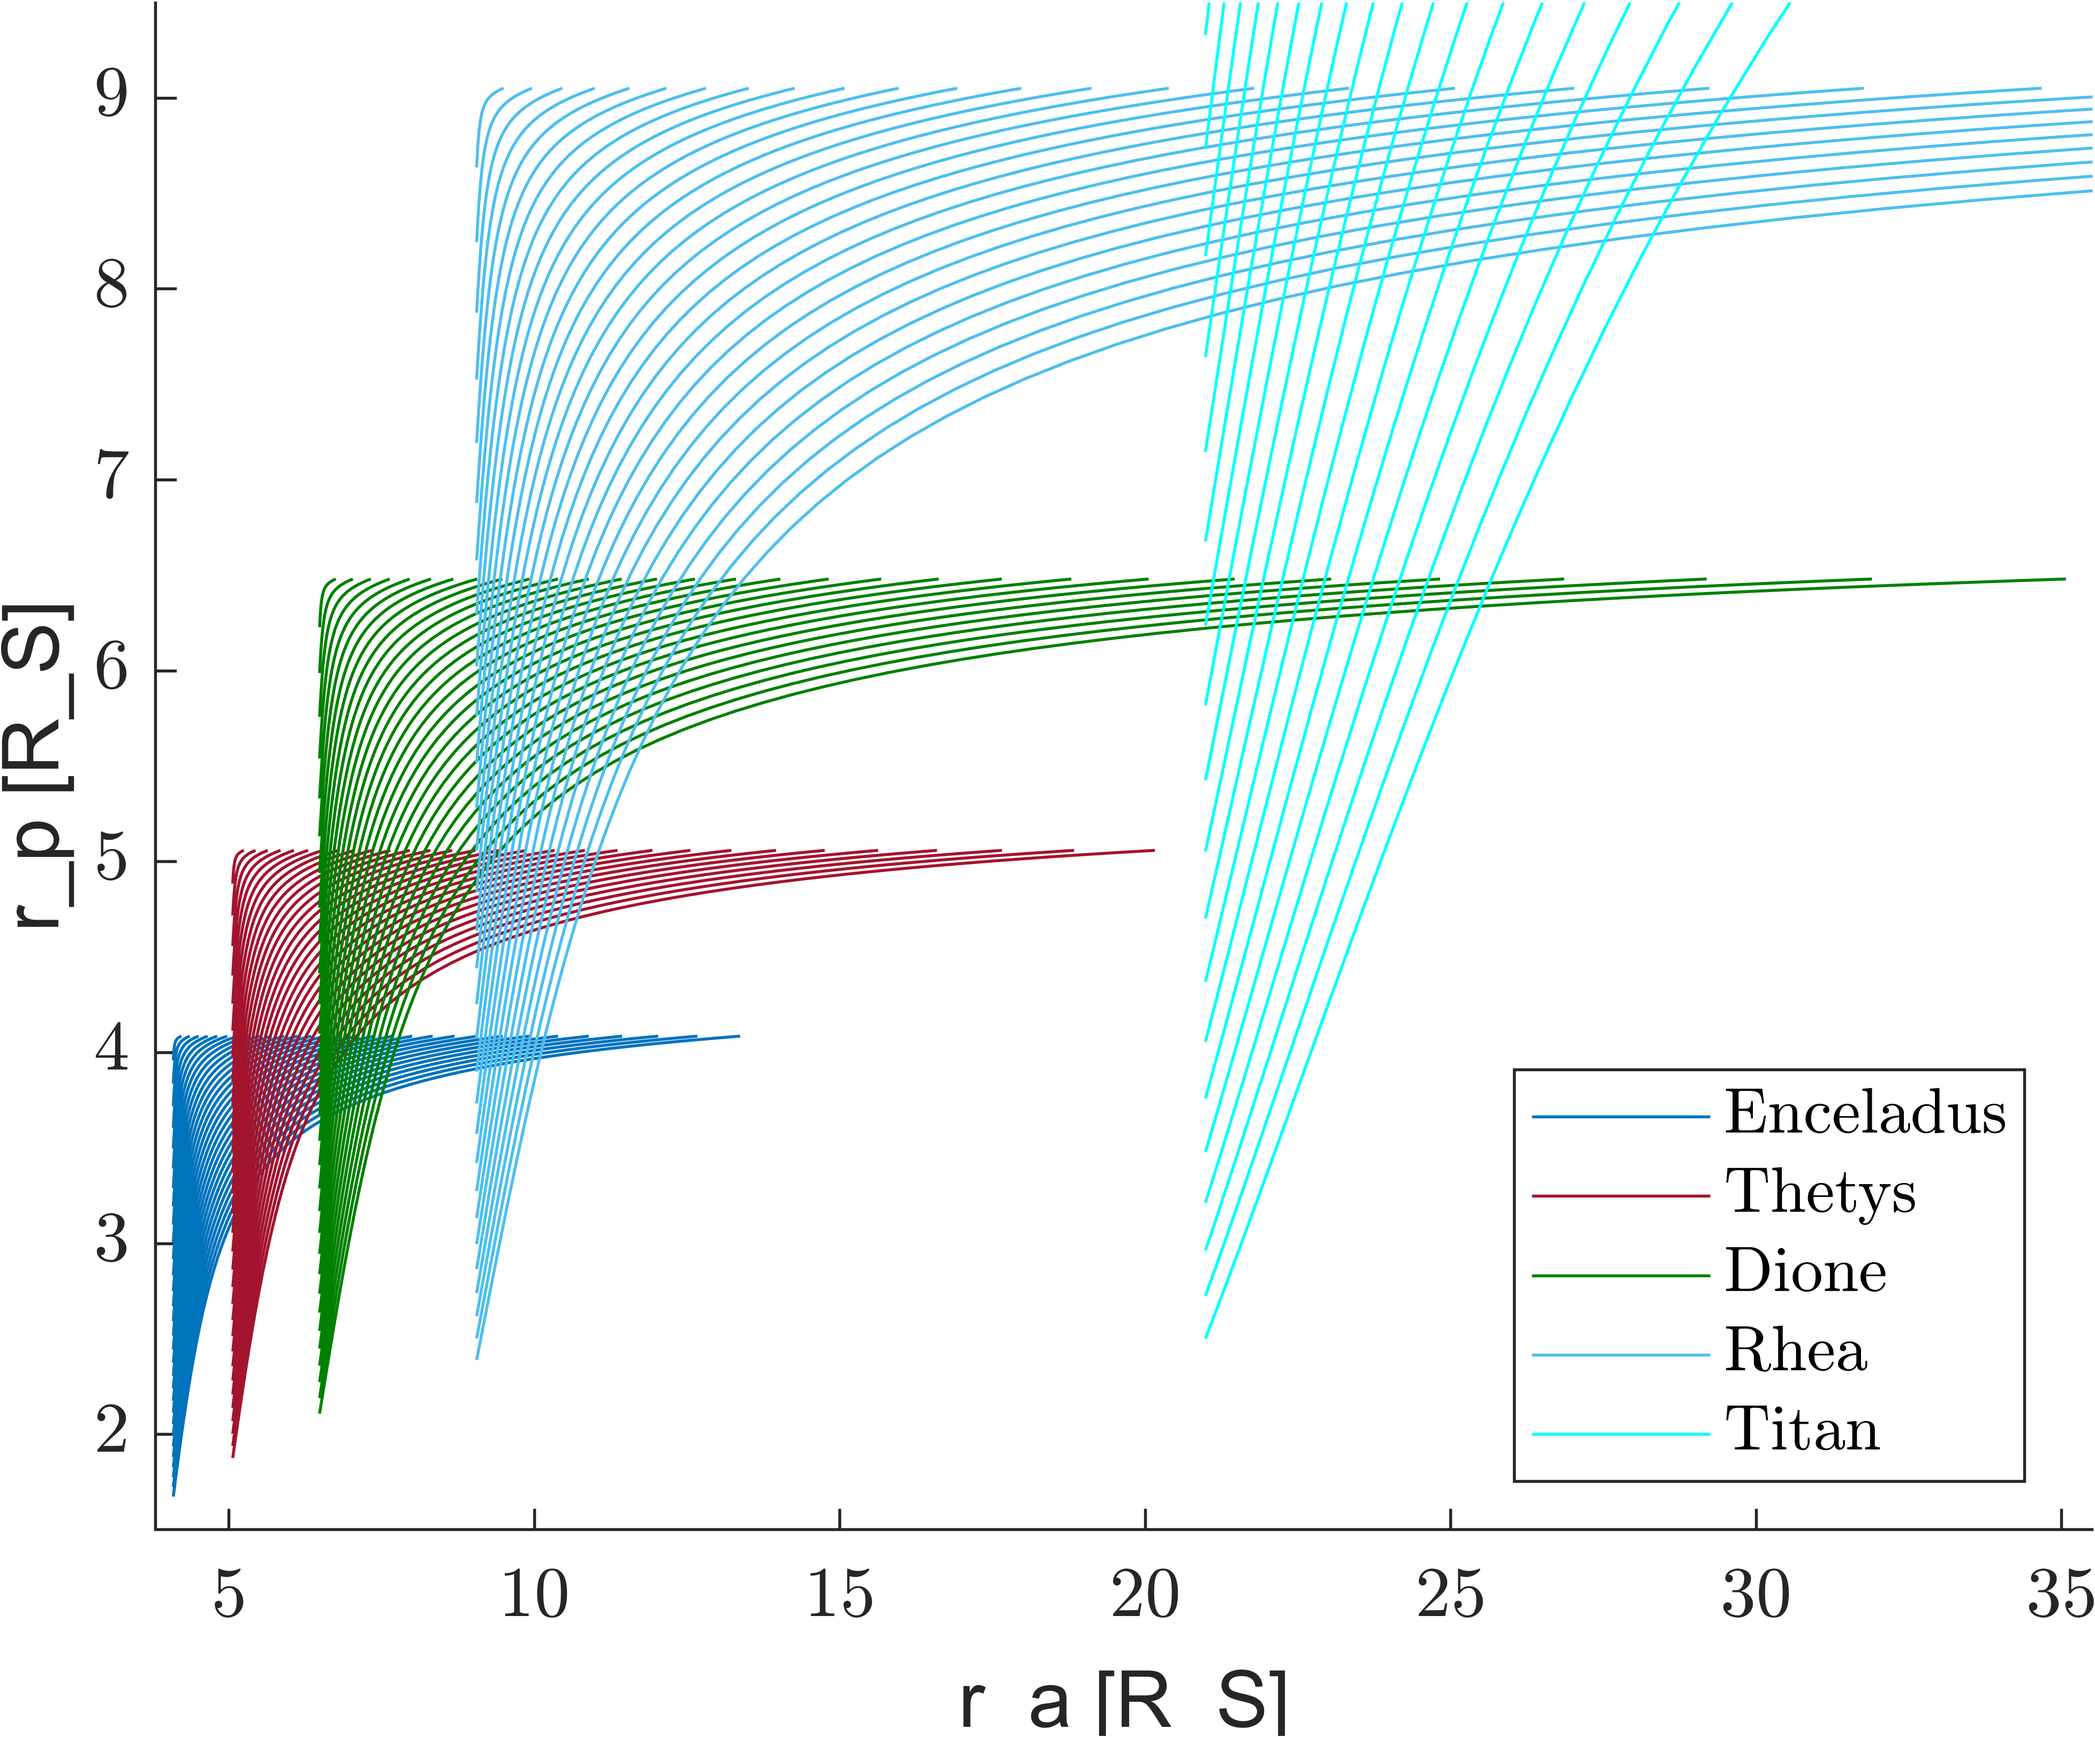
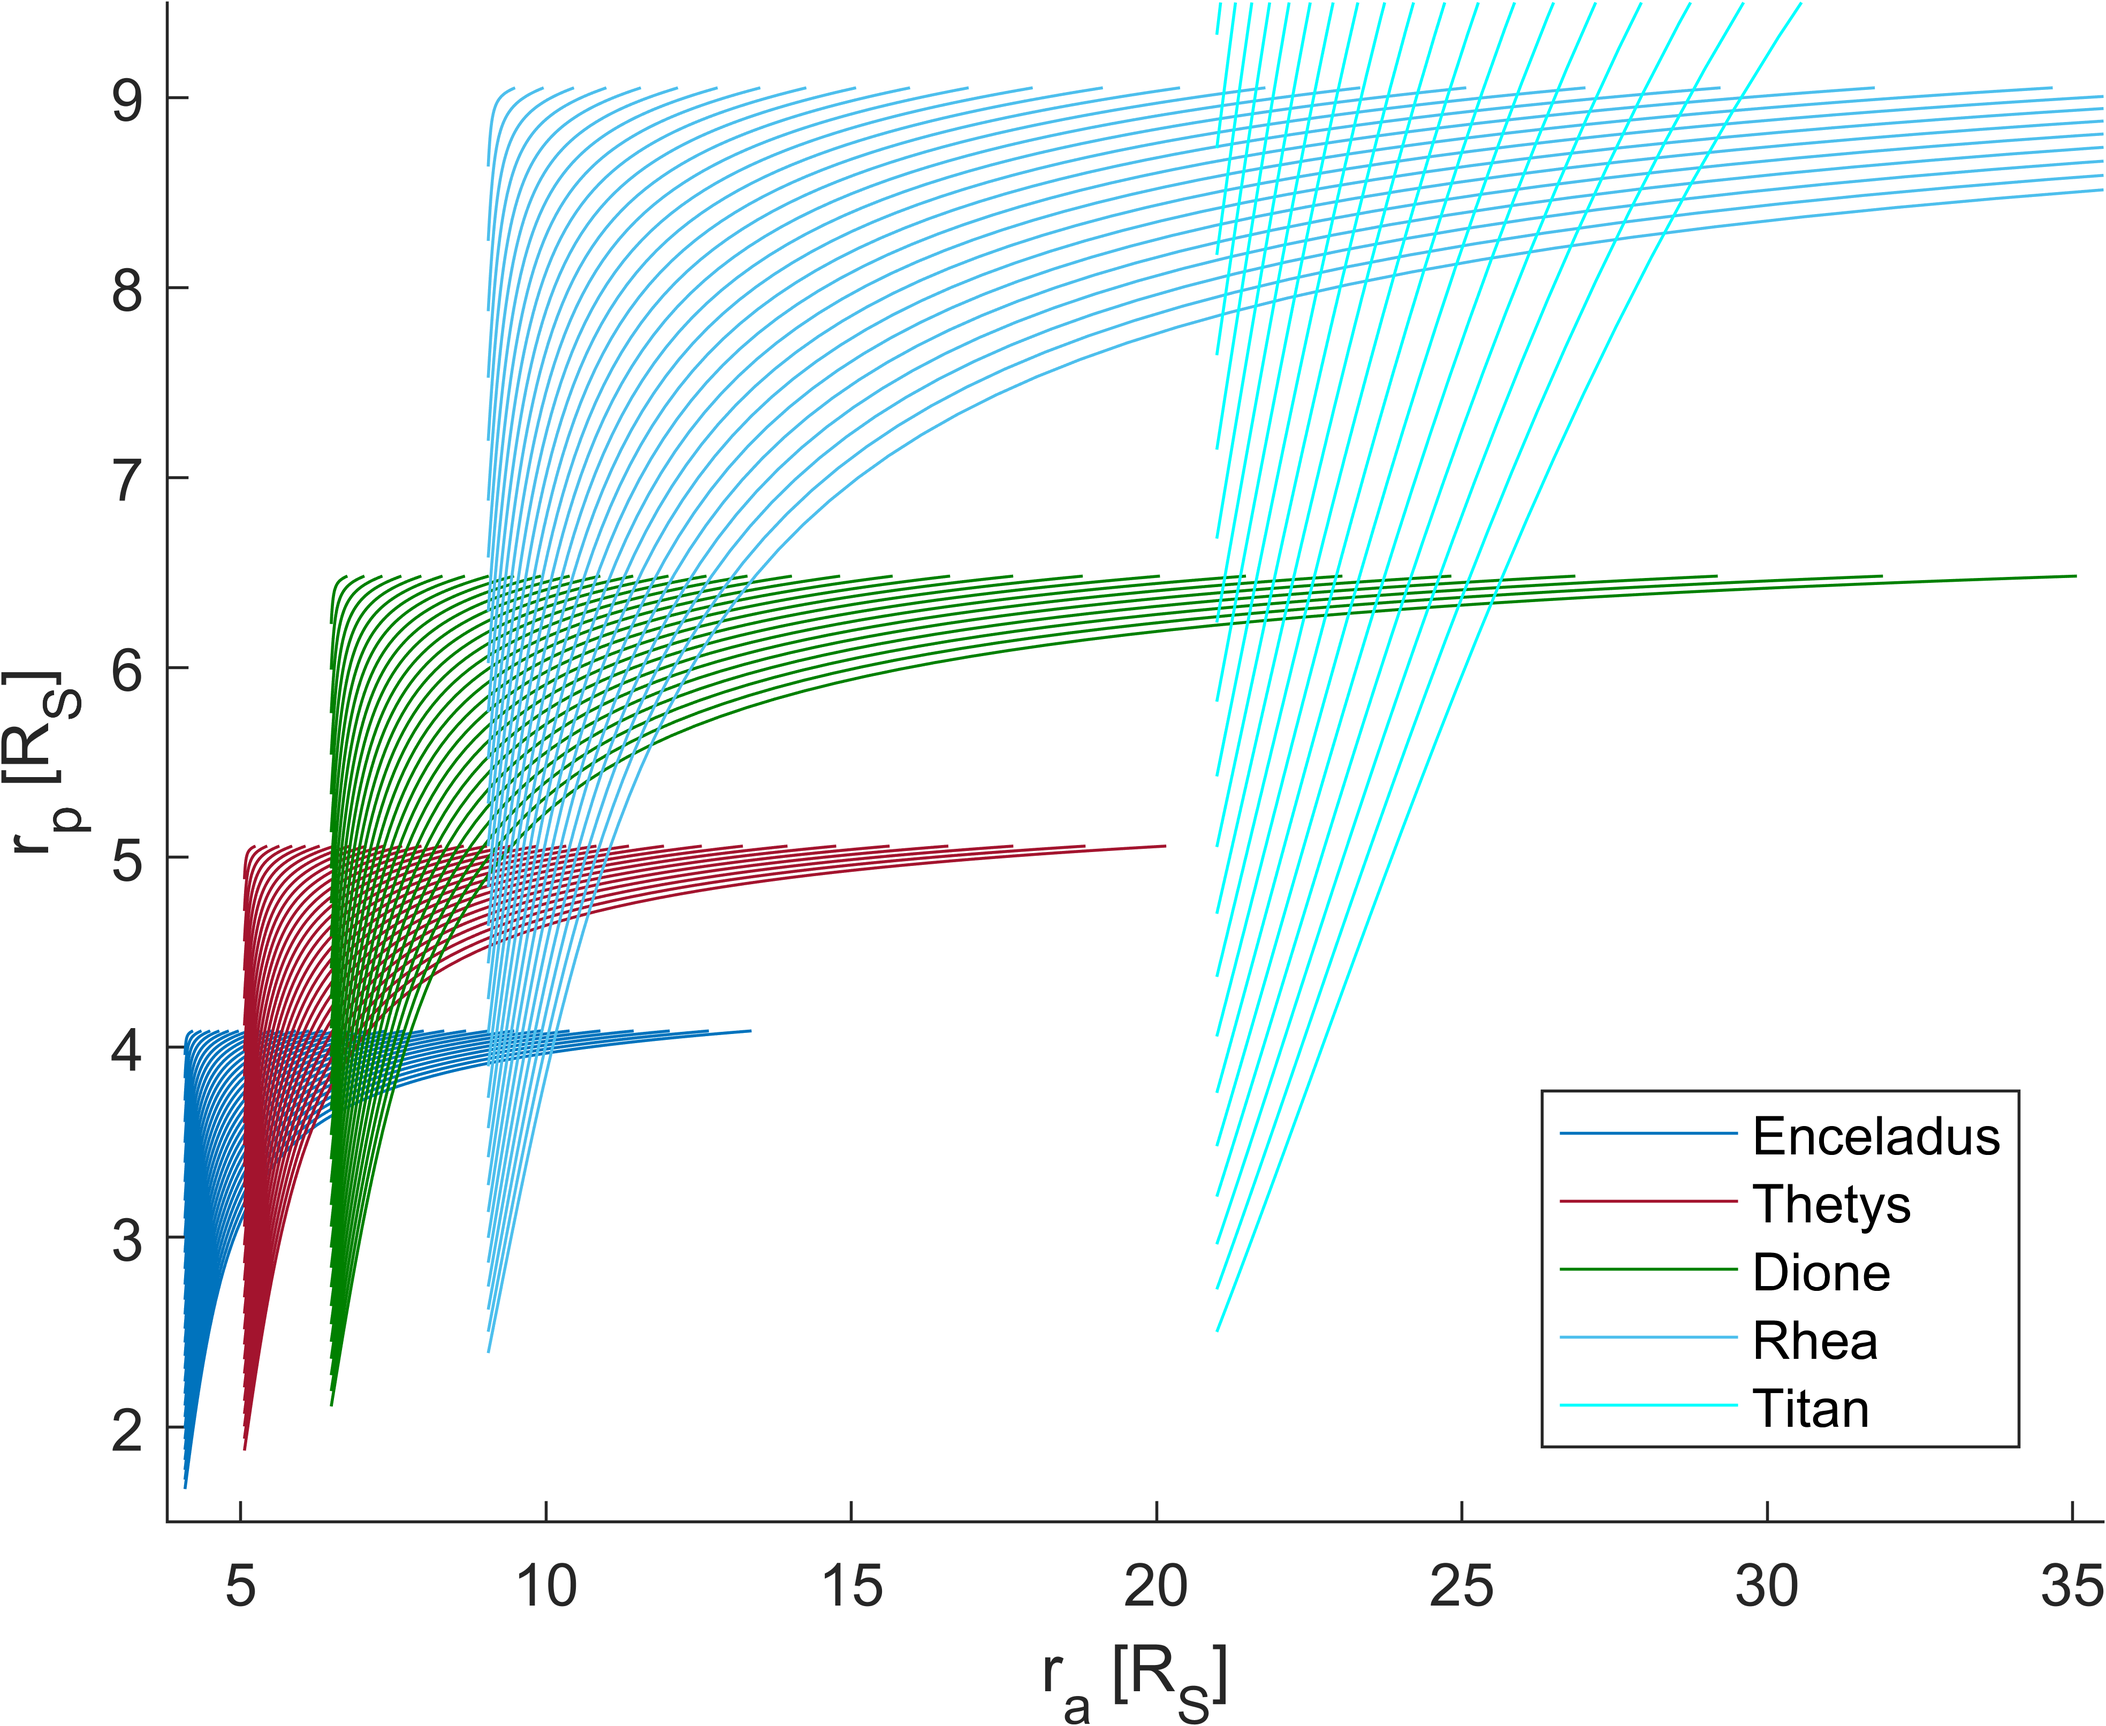
upd auto scale plot resonances

diff --git a/AUTOMATE/Tisserand/Tisserand graphs/Plots/plotResonances.m b/AUTOMATE/Tisserand/Tisserand graphs/Plots/plotResonances.m
@@ -151,7 +151,14 @@ end
 
 if addLegend == 1
     columnlegend(nColLeg, legendnameRes, 'location', 'souteast');
-    
 end
+
+% --> automatically scaling the plot
+idmax = max(IDS);
+[~, ~, rpl] = constants(idcentral, idmax);
+[~, radius] = planetConstants(idcentral);
+y_scaling = rpl/radius;
+
+ylim( [0-2 y_scaling+2] );
 
 end
